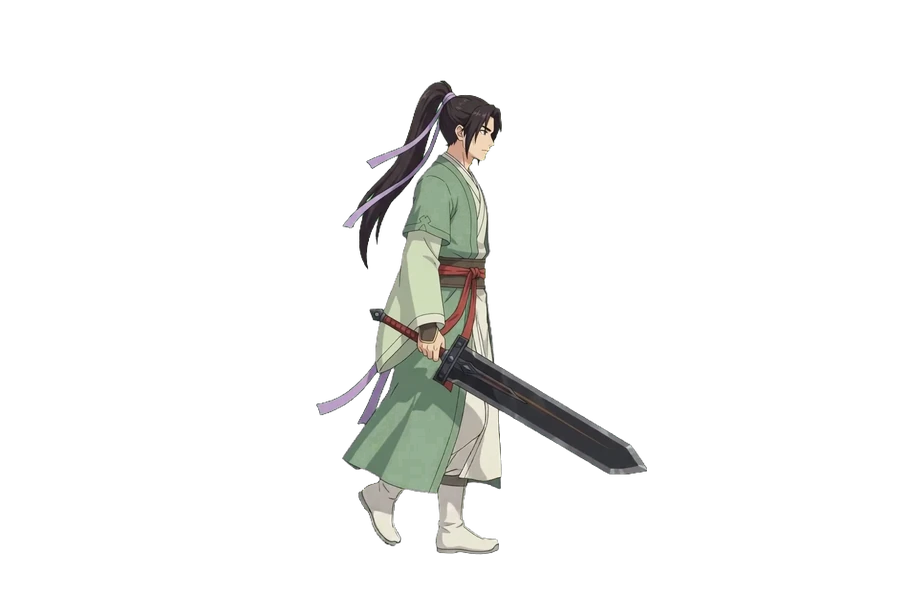
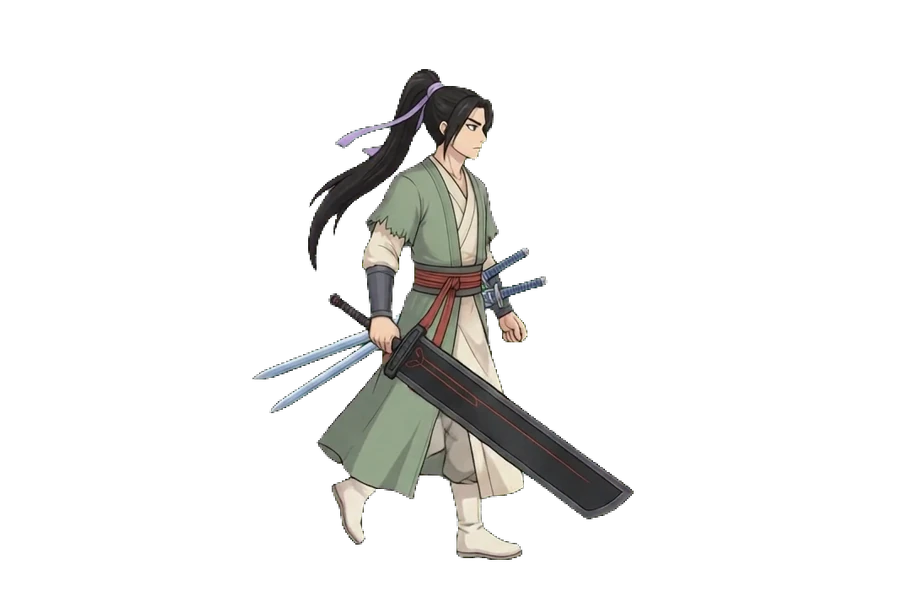
v0.8.132 莫寒川重劍走路改用 Gemini 影片抽幀 12 幀
Claude-Session: https://claude.ai/code/session_019t36GnPG1BEtRqHKiTrcQ6

Changed region(s): [[0.28, 0.12, 0.7156, 0.93]]

diff --git a/index.html b/index.html
@@ -2079,7 +2079,7 @@
       "use strict";
 
       /* v0.7.8 圖片快取：assets/ 圖片網址一律加 ?v=版本，更新美術後不會讀到手機瀏覽器的舊快取（每次改圖就遞增 ASSET_VER） */
-      const ASSET_VER = "0.8.131";
+      const ASSET_VER = "0.8.132";
       (function () {
         const d = Object.getOwnPropertyDescriptor(HTMLImageElement.prototype, "src");
         if (!d || !d.set) return;
@@ -2975,7 +2975,7 @@
           A: { sprite: "boss3", stride: 250, walkSeq: ["03_walk1", "04_walk2", "05_walk3", "06_walk4"], remap: { "12_thrust_rec": "10_slash_rec" }, /* 雙劍表第 12 格只畫了手、沒有劍，突刺收招改用第 10 格 */
             pool: [["slash1", 26], ["exclusive_combo", 22], ["exclusive_feint", 20], ["slash2", 10], ["dash_rush", 8], ["thrust_peril", 7], ["sweep_peril", 7]],
             far: ["dash_rush"], farP2: [] },
-          B: { sprite: "boss3b", stride: 300, walkSeq: ["03_walk1", "01_idle1"], walkBob: 7, /* v0.8.131 重劍走路：只有 03 有劍的跨步格，改成跨步／收腳兩格慢速交替＋上下起伏（原 4 格輪播且步幅 200，像滑行） */ alias: { thrust_peril: "heavy_thrust", sweep_peril: "heavy_sweep" }, /* v0.8.60 低掃在重劍姿態也換成千鈞橫江斬（否則會找雙劍圖） */
+          B: { sprite: "boss3b", stride: 260, /* v0.8.132 重劍走路改用 Gemini 走路影片抽幀 walk_01～12（綠幕、35 幀週期；原 walkSeq 兩格交替為過渡方案） */ alias: { thrust_peril: "heavy_thrust", sweep_peril: "heavy_sweep" }, /* v0.8.60 低掃在重劍姿態也換成千鈞橫江斬（否則會找雙劍圖） */
             pool: [["heavy_slam", 30], ["heavy_slash", 22], ["heavy_zone", 18], ["heavy_thrust", 15], ["heavy_sweep", 15]],
             poolP2: [["heavy_slam", 22], ["heavy_slash", 16], ["heavy_zone", 18], ["heavy_thrust", 14], ["heavy_sweep", 14], ["sword_cleave", 16]],
             far: [], farP2: ["heavy_zone"] }

diff --git a/src/21_stages.js b/src/21_stages.js
@@ -124,7 +124,7 @@
           A: { sprite: "boss3", stride: 250, walkSeq: ["03_walk1", "04_walk2", "05_walk3", "06_walk4"], remap: { "12_thrust_rec": "10_slash_rec" }, /* 雙劍表第 12 格只畫了手、沒有劍，突刺收招改用第 10 格 */
             pool: [["slash1", 26], ["exclusive_combo", 22], ["exclusive_feint", 20], ["slash2", 10], ["dash_rush", 8], ["thrust_peril", 7], ["sweep_peril", 7]],
             far: ["dash_rush"], farP2: [] },
-          B: { sprite: "boss3b", stride: 300, walkSeq: ["03_walk1", "01_idle1"], walkBob: 7, /* v0.8.131 重劍走路：只有 03 有劍的跨步格，改成跨步／收腳兩格慢速交替＋上下起伏（原 4 格輪播且步幅 200，像滑行） */ alias: { thrust_peril: "heavy_thrust", sweep_peril: "heavy_sweep" }, /* v0.8.60 低掃在重劍姿態也換成千鈞橫江斬（否則會找雙劍圖） */
+          B: { sprite: "boss3b", stride: 260, /* v0.8.132 重劍走路改用 Gemini 走路影片抽幀 walk_01～12（綠幕、35 幀週期；原 walkSeq 兩格交替為過渡方案） */ alias: { thrust_peril: "heavy_thrust", sweep_peril: "heavy_sweep" }, /* v0.8.60 低掃在重劍姿態也換成千鈞橫江斬（否則會找雙劍圖） */
             pool: [["heavy_slam", 30], ["heavy_slash", 22], ["heavy_zone", 18], ["heavy_thrust", 15], ["heavy_sweep", 15]],
             poolP2: [["heavy_slam", 22], ["heavy_slash", 16], ["heavy_zone", 18], ["heavy_thrust", 14], ["heavy_sweep", 14], ["sword_cleave", 16]],
             far: [], farP2: ["heavy_zone"] }

diff --git a/src/10_boot.js b/src/10_boot.js
@@ -3,7 +3,7 @@
       "use strict";
 
       /* v0.7.8 圖片快取：assets/ 圖片網址一律加 ?v=版本，更新美術後不會讀到手機瀏覽器的舊快取（每次改圖就遞增 ASSET_VER） */
-      const ASSET_VER = "0.8.131";
+      const ASSET_VER = "0.8.132";
       (function () {
         const d = Object.getOwnPropertyDescriptor(HTMLImageElement.prototype, "src");
         if (!d || !d.set) return;

diff --git a/HANDOFF.md b/HANDOFF.md
@@ -1,4 +1,4 @@
-# 《一念飛仙外傳-墨塵傳》交接文件（對應版本 v0.8.131（M2 進行中；M0 分檔＋M1 聲音第一批））
+# 《一念飛仙外傳-墨塵傳》交接文件（對應版本 v0.8.132（M2 進行中；M0 分檔＋M1 聲音第一批））
 
 > 新對話開始時：上傳這份文件，第一句話寫「請先讀交接文件，照文件的流程繼續」。
 > Claude 要先把倉庫掛進工作階段（add_repo：mashin-84/mochen，push 權限）、clone，再讀 `index.html` 的關鍵段落。
@@ -611,6 +611,8 @@
 - 全部 canvas 字型（浮字、危、決、煞氣預警、處決大字備用、開場字、舊劇情）改用實際字型名 `'Noto Serif TC', 'Songti TC', 'PMingLiU', serif`，字回到原設定大小（字級數字未改）。HTML 裡的 `var(--font-serif)` 不受影響。
 - 「危」字：有動作表的 Boss 改放在圖上頭頂上方 28px（`opaqueTop` 掃當格最上緣不透明列、快取在圖上；`Boss._headY` 平滑避免換格跳動，`loadStage` 清空）；沒有動作表的 Boss 維持原位置。
 - 待觀察：浮字變清楚後畫面字變多，若覺得吵再減量。
+
+**v0.8.132 莫寒川重劍走路改用影片抽幀（使用者決定「還是用影片好了」）**：Gemini 圖生影片（附 `ref_b3b_walk` 綠幕參考圖、單一固定鏡頭、4 秒 24fps、原地走路；影片全程無漂移：重劍與雙劍都在、步伐均勻、綠幕乾淨）。`tools/proc.py`（`process(d,P,t0,N,refpath,W,H,AX,BY,outdir,prefix,refH)`）：自相關找週期 **35 幀**（一個完整左右兩步），起點第 18 幀，取 12 幀；以「身體高度」對齊動作表（`refH=491`、腳底 `BY=559`、`AX=450`，縮放 0.844；腳底在 550～559 間浮動是抬腳的自然起伏，不拉平）→ `assets/boss3b/walk_01～12.webp`（覆蓋舊的一組）。`stances.B` 移除 `walkSeq`／`walkBob`，改用引擎的 12 幀走路（`SP.walk`，`stride` 260；`getWalkNorm` 依 idle／走路高度比自動校正，實測比值 1.008）。`walkBob` 機制（`64_draw_boss`）保留給之後的姿態用。無頭截圖：左右腳交替、重劍雙劍穩定、與主角大小一致、顏色與動作表一致；smoke 第 3 關 ok。待手機實測：步幅是否貼地（`stride` 260 太快／慢可調）。
 
 **v0.8.131 莫寒川重劍姿態走路修正（使用者回報）**：成因——重劍表 `04～06_walk` 三格**畫的是沒有重劍的走路**（雙劍加空手），所以 v0.7.6 起重劍姿態 `walkSeq` 只用有劍的 `03_walk1`／`01_idle1`／`02_idle2`，但這三格腳位幾乎一樣，再加步幅 200（二階段速度 320 → 每秒 1.6 步）＝原地滑行。改為 `stances.B`：`walkSeq:["03_walk1","01_idle1"]`（跨步／收腳兩格交替）、`stride` 200→300（每步更慢更沉）、新增 `walkBob:7`（走路時身體上下起伏 7px，落腳最低；`64_draw_boss` 每幀歸零後走路分支才設定 `Boss._walkBob`）。無頭截圖確認走路兩格交替且有劍。若仍不順：請 Gemini 補生「重劍行走 4 格」（持重劍、左右腳交替；AI 分不清左右腳，建議走路影片抽幀），這是根本解法。
 
